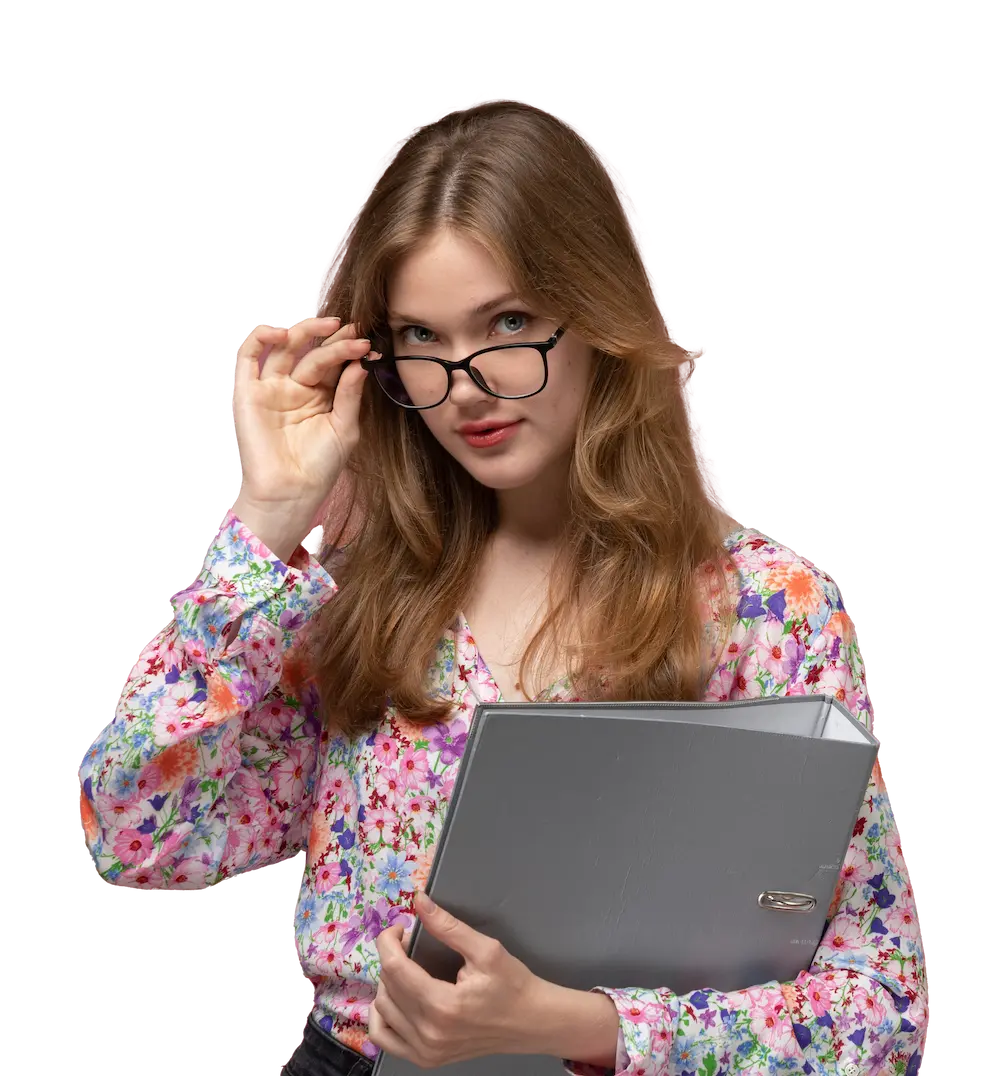
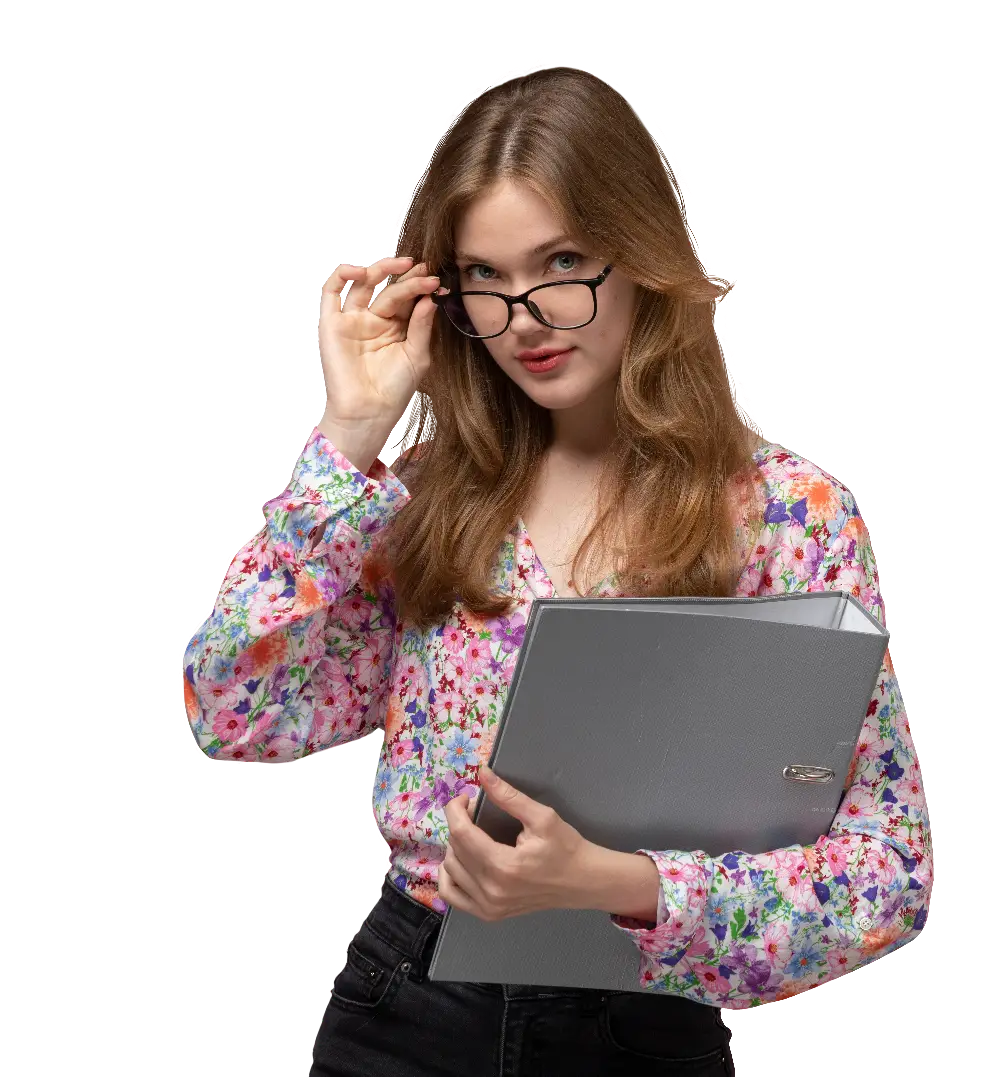
feat: two second for opacity animation

diff --git a/src/components/Hero/Hero.styles.ts b/src/components/Hero/Hero.styles.ts
@@ -186,88 +186,66 @@ export const ImageWrapper = styled.div`
 		width: 140%;
 		bottom: -5rem;
 		left: -6rem;
-	}
 
-	@media only screen and (min-width: ${breakpoints.lg}) {
-		display: inherit;
-		width: 140%;
-		bottom: -5rem;
-		left: -6rem;
+		${() => {
+			const numberOfImages = 3
+			const visibleTime = 5
+			const opacityTime = 2
+			const opacityIntersection = opacityTime / 2
 
-		--visibleTime: 5;
-		--opacityTime: 1;
-		--delayTime: 12.5;
-		--timeAnimation: calc(
-			var(--visibleTime) + var(--opacityTime) * 2 + var(--delayTime)
-		);
-		--initialDelay-1: 0;
-		--initialDelay-2: calc(
-			var(--initialDelay-1) + var(--visibleTime) + var(--opacityTime) / 2
-		);
-		--initialDelay-3: calc(
-			var(--initialDelay-2) + var(--visibleTime) + var(--opacityTime) * 1.5
-		);
+			const timeAnimation =
+				numberOfImages * (visibleTime + opacityTime + opacityIntersection)
+			const delayTime = timeAnimation - visibleTime - opacityTime * 2
+			const percentPerSecond = 100 / timeAnimation
 
-		& picture:first-child {
-			opacity: 0;
-			animation: fadeFirst calc(var(--timeAnimation) * 1s) ease-in-out infinite;
-		}
+			const initialDelay1 = 0
+			const initialDelay2 = initialDelay1 + visibleTime + opacityIntersection
+			const initialDelay3 =
+				initialDelay2 + opacityTime + visibleTime + opacityIntersection
 
-		& picture:not(:first-child) {
-			position: absolute;
-			top: 0;
-			right: 0;
-			opacity: 0;
-			animation: fade calc(var(--timeAnimation) * 1s) ease-in-out infinite;
-		}
+			return `
+				& picture:first-child {
+					opacity: 0;
+					animation: fadeFirst ${timeAnimation}s ease-in-out infinite;
+				}
 
-		& picture:nth-child(1) {
-			animation-delay: calc(var(--initialDelay-1) * 1s);
-		}
+				& picture:not(:first-child) {
+					position: absolute;
+					top: 0;
+					right: 0;
+					opacity: 0;
+					animation: fade ${timeAnimation}s ease-in-out infinite;
+				}
 
-		& picture:nth-child(2) {
-			animation-delay: calc(var(--initialDelay-2) * 1s);
-		}
+				& picture:nth-child(1) {
+					animation-delay: ${initialDelay1}s;
+				}
 
-		& picture:nth-child(3) {
-			animation-delay: calc(var(--initialDelay-3) * 1s);
-		}
+				& picture:nth-child(2) {
+					animation-delay: ${initialDelay2}s;
+				}
 
-		@keyframes fadeFirst {
-			0% {
-				opacity: 1;
-			}
-			25.5% {
-				opacity: 1;
-			}
-			30.6% {
-				opacity: 0;
-			}
-			94.35% {
-				opacity: 0;
-			}
-			100% {
-				opacity: 1;
-			}
-		}
+				& picture:nth-child(3) {
+					animation-delay: ${initialDelay3}s;
+				}
 
-		@keyframes fade {
-			0% {
-				opacity: 0;
-			}
-			5.1% {
-				opacity: 1;
-			}
-			30.6% {
-				opacity: 1;
-			}
-			35.7% {
-				opacity: 0;
-			}
-			100% {
-				opacity: 0;
-			}
-		}
+				@keyframes fadeFirst {
+					0%{opacity: 1}
+					${visibleTime * percentPerSecond}%{opacity: 1}
+					${(visibleTime + opacityTime) * percentPerSecond}%{opacity: 0}
+					${(visibleTime + opacityTime + delayTime) * percentPerSecond}%{opacity: 0}
+					100%{opacity: 1}
+				}
+
+				@keyframes fade {
+					0%{opacity: 0}
+					${opacityTime * percentPerSecond}%{opacity: 1}
+					${(visibleTime + opacityTime) * percentPerSecond}%{opacity: 1}
+					${(visibleTime + opacityTime * 2) * percentPerSecond}%{opacity: 0}
+					100%{opacity: 0}
+				}
+				`
+		}}
 	}
 
 	@media only screen and (min-width: ${breakpoints.xl}) {
@@ -280,7 +258,7 @@ export const ImageWrapper = styled.div`
 		width: 37.5rem;
 		top: 2rem;
 		bottom: inherit;
-		right: 4rem;
+		right: -1rem;
 		max-height: 100%;
 
 		& img {
